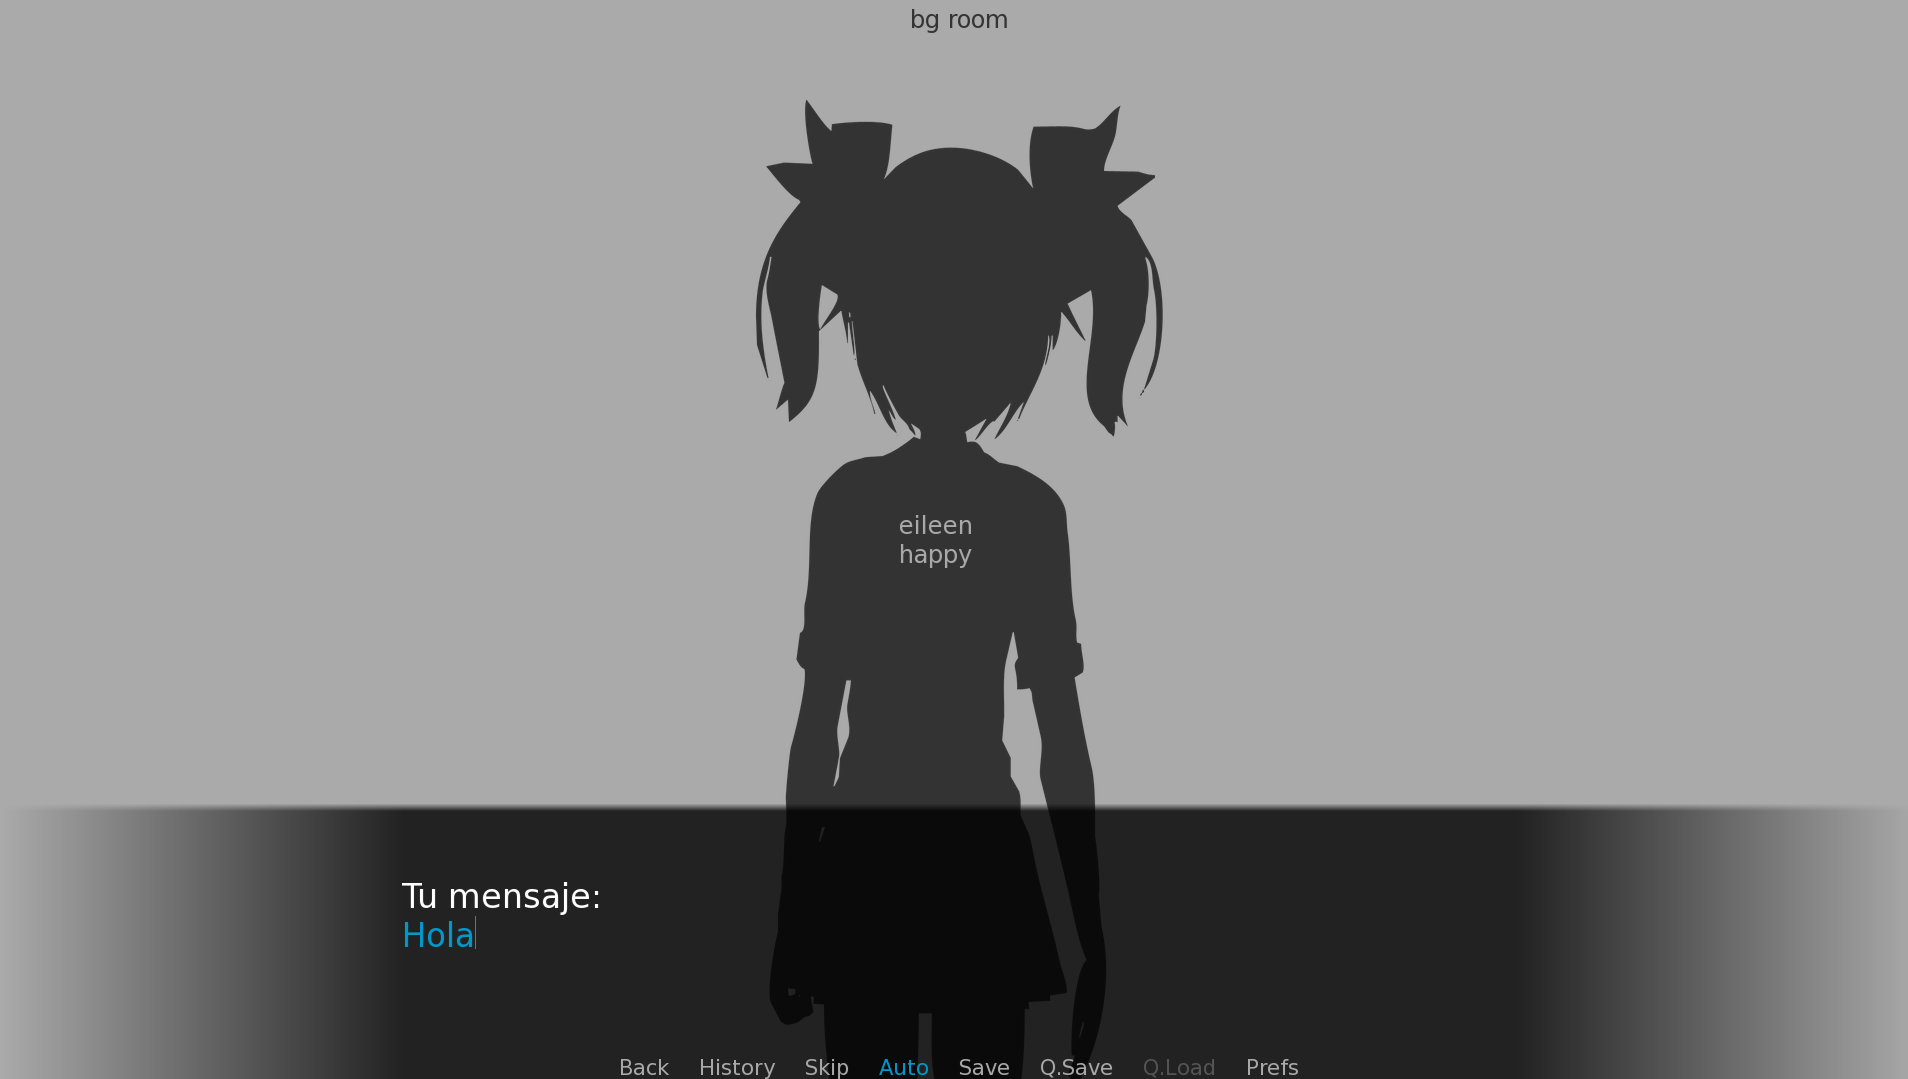
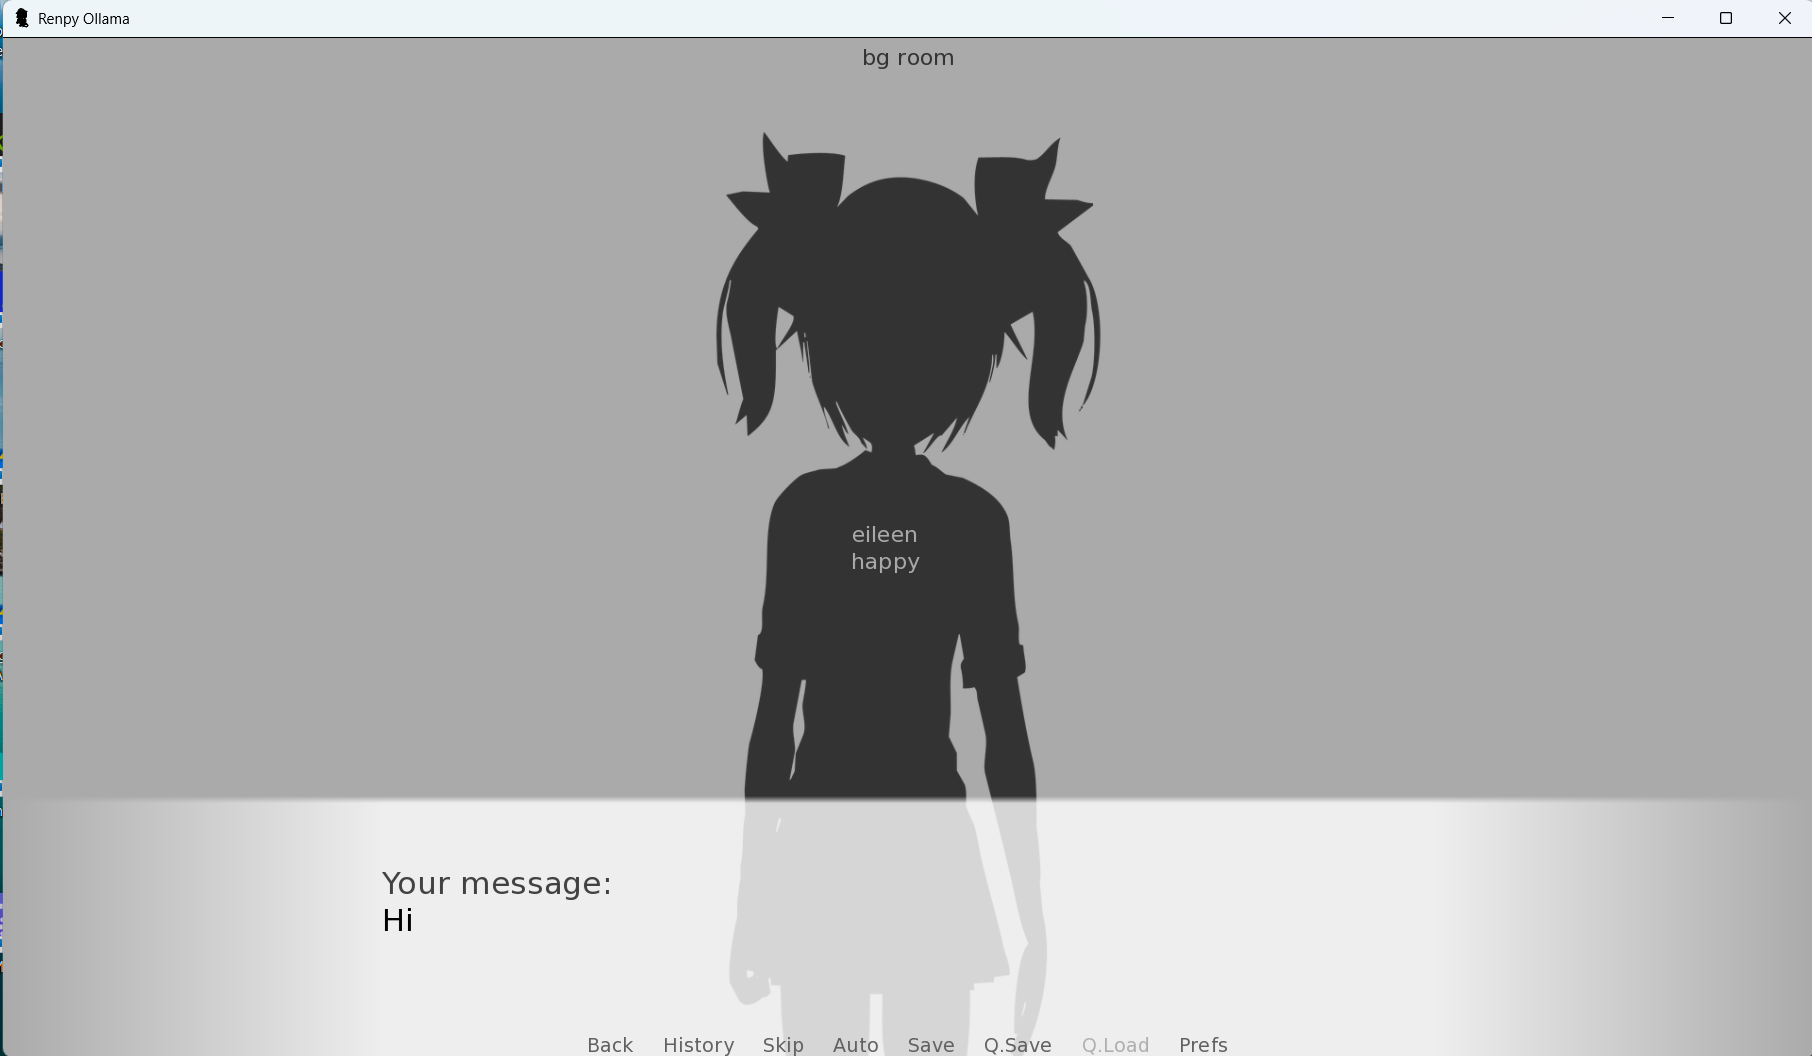
v0.2
-The text is ajusted to fit non the dialogue box

-Screens Shots on English

-Put the name of the project on the repy fiel

-Put the correct version

diff --git a/README.md b/README.md
@@ -61,14 +61,15 @@ You can do some settings on the output tokens and choose your model on the scryp
 ## ¿Future updates?
 -Translating text on the screenshoots to English and some text that is not in English
 
--Do some cleaning on the Files
+-Do some cleaning on the Files 
 
 -Add some style to the program (It's pretty rough):
 Image for the girl
 Not use the default UI
 Beurify the menu
 
--Program that if the response is too bif for the dialogue box, put it on the next dialogue box (Feaseable)
+-Program that if the response is too big for the dialogue box, put it on the next dialogue box (Feaseable) **Done**
+
 
 -Upgrading this Wiki, after more testing
 
